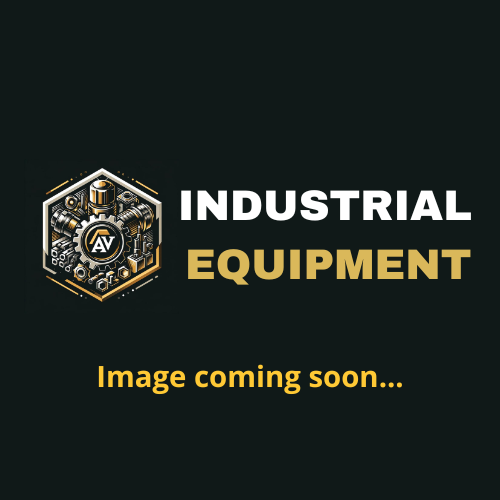
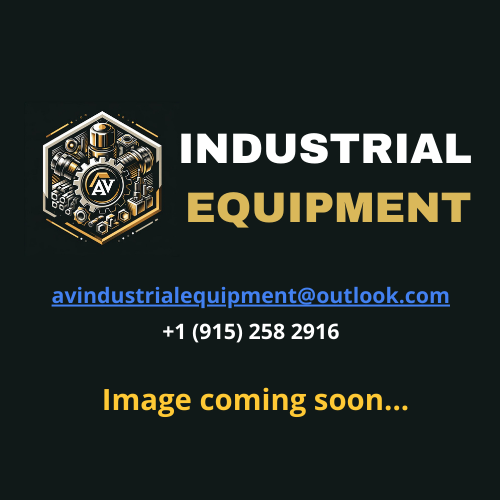
Image fix + phone numbers

Changed region(s): [[0.06, 0.21, 0.96, 0.69], [0.18, 0.72, 0.81, 0.84], [0.36, 0.24, 0.96, 0.33]]

diff --git a/av-app/src/components/Header/Header.js b/av-app/src/components/Header/Header.js
@@ -13,7 +13,7 @@ function Header() {
         <Col xs={4}>
           <Container className='d-flex align-items-center cell-phone'>
               <TelephoneInboundFill color="white" size={24} />
-              <h5 className="ms-3 mb-0">915-258-2916</h5>
+              <h5 className="ms-3 mb-0">+1 (915) 258 2916</h5>
           </Container>
         </Col>
 

diff --git a/av-app/src/api/axiosConfig.js b/av-app/src/api/axiosConfig.js
@@ -2,6 +2,7 @@ import axios from 'axios';
 
 // Create an Axios instance
 const api = axios.create({
+  // baseURL: 'http://localhost:5278',
   baseURL: 'https://avindustrialequipment.com',
   headers: {
     'Content-Type': 'application/json',
